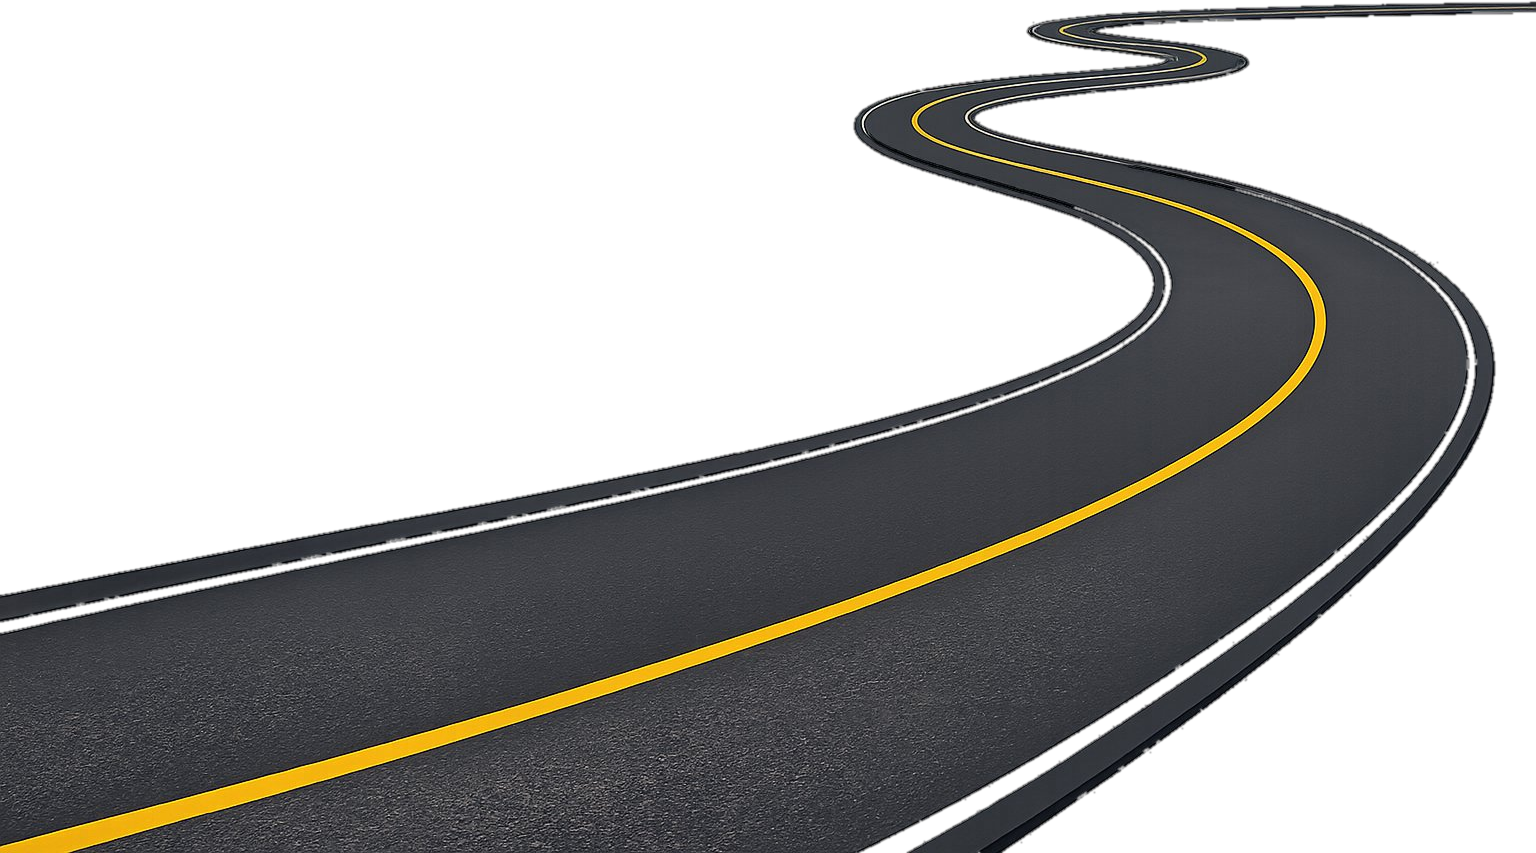
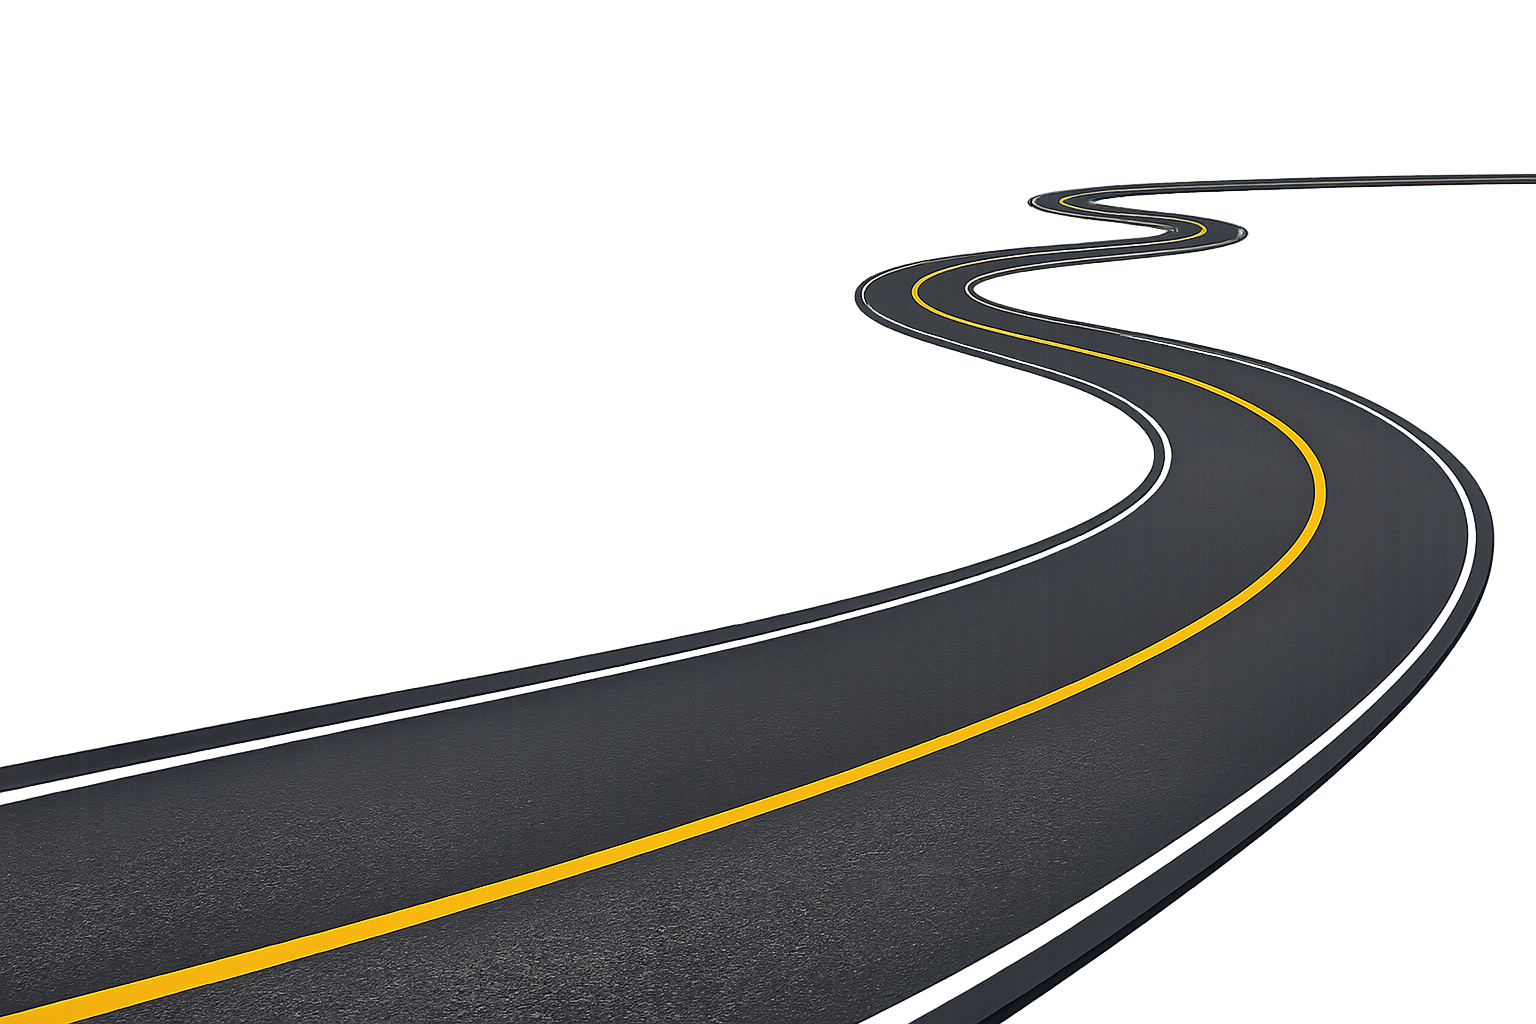
web_distinta

Changed region(s): [[0.0, 0.0, 1.0, 1.0], [0.7812, 0.5791, 0.8125, 0.6096], [0.75, 0.6096, 0.7812, 0.6401]]

diff --git a/styles.css b/styles.css
@@ -72,14 +72,14 @@
   .hero-note b{color:var(--text);font-weight:600}
 
   /* Composición visual del hero (placeholder de fotos) */
-  .hero-art{position:relative;display:flex;align-items:center;justify-content:center;padding:6px 0}
-  .road-scene{position:relative;width:100%}
-  .hero-road{width:100%;height:auto;display:block}
-  .hero-truck{position:absolute;left:36%;bottom:8%;width:44%;height:auto;z-index:3;filter:drop-shadow(0 10px 14px rgba(14,22,46,.18))}
-  .truck-shadow{position:absolute;left:37%;bottom:6%;width:42%;height:7%;z-index:2;background:radial-gradient(ellipse at center,rgba(12,16,30,.34),rgba(12,16,30,0) 70%)}
-  .hero-art .fdrop{position:absolute;z-index:4;height:auto}
-  .hero-art .hd1{top:6%;left:3%;width:30px}
-  .hero-art .hd2{top:30%;right:2%;width:26px}
+  .hero-art{position:relative;display:flex;align-items:center;justify-content:center;padding:14px 4px}
+  .hero-blob{position:absolute;inset:5% 1%;z-index:0;background:var(--amarillo);border-radius:46% 54% 56% 44% / 57% 46% 54% 43%}
+  .hero-truck{position:relative;z-index:2;width:100%;height:auto;display:block;filter:drop-shadow(0 16px 20px rgba(14,22,46,.25))}
+  .hero-road{position:relative;z-index:2;width:100%;height:auto;display:block}
+  .hero-art .fdrop{position:absolute;z-index:3;height:auto}
+  .hero-art .hd1{top:4%;left:5%;width:30px}
+  .hero-art .hd2{top:9%;right:6%;width:26px}
+  .hero-art .hd3{bottom:12%;left:2%;width:24px}
   .frame{position:absolute;border-radius:var(--r-lg);overflow:hidden;background:var(--paper);border:1px solid var(--line);box-shadow:var(--shadow)}
   .frame .ph{width:100%;height:100%;display:flex;align-items:flex-end;padding:16px;color:#fff;font-family:"Fredoka";font-weight:500;font-size:.9rem}
   .frame.big{top:0;right:0;width:74%;height:300px;transform:rotate(2deg)}
@@ -252,10 +252,12 @@
   @keyframes bob{0%,100%{transform:translateY(0) rotate(0deg)}50%{transform:translateY(-9px) rotate(-.6deg)}}
   @keyframes spin{to{transform:rotate(360deg)}}
   @keyframes blobpulse{0%,100%{transform:scale(1) rotate(0deg)}50%{transform:scale(1.04) rotate(2.5deg)}}
+  .js .hero-blob{transform-box:fill-box;transform-origin:center;animation:blobpulse 13s ease-in-out infinite}
   .js .hero-truck{animation:bob 5s ease-in-out infinite}
   .js .hero-art .fdrop{transform-box:fill-box;transform-origin:center}
   .js .hero-art .hd1{animation:floaty 5s ease-in-out infinite}
   .js .hero-art .hd2{animation:floaty 6.4s ease-in-out infinite}
+  .js .hero-art .hd3{animation:floaty 5.6s ease-in-out infinite .6s}
   .gallery .g{transition:transform .4s ease,box-shadow .4s ease,opacity .55s ease}
   .gallery .g:hover{transform:translateY(-5px) scale(1.015)}
   .js .reveal.in{opacity:1;transform:none}

diff --git a/index.html b/index.html
@@ -53,13 +53,13 @@
     </div>
 
     <div class="hero-art reveal" aria-hidden="true">
-      <div class="road-scene">
-        <img class="hero-road" src="road.png" alt="">
-        <span class="truck-shadow"></span>
-        <img class="hero-truck" src="pindeco-furgoneta.png" alt="Furgoneta de Pindeco">
-        <svg class="fdrop hd1" viewBox="0 0 100 130"><path d="M50 5C30 55 12 75 12 92a38 38 0 0 0 76 0C88 75 70 55 50 5Z" fill="var(--amarillo)"/></svg>
-        <svg class="fdrop hd2" viewBox="0 0 100 130"><path d="M50 5C30 55 12 75 12 92a38 38 0 0 0 76 0C88 75 70 55 50 5Z" fill="var(--rojo)"/></svg>
-      </div>
+     <!--  <span class="hero-blob"></span>-->
+        <img class="hero-truck" src="road.png" alt="carretera">
+      <img class="hero-truck" src="pindeco-furgoneta.png" alt="Furgoneta de Pindeco">
+     <!-- <svg class="fdrop hd1" viewBox="0 0 100 130"><path d="M50 5C30 55 12 75 12 92a38 38 0 0 0 76 0C88 75 70 55 50 5Z" fill="var(--amarillo)"/></svg>
+      <svg class="fdrop hd2" viewBox="0 0 100 130"><path d="M50 5C30 55 12 75 12 92a38 38 0 0 0 76 0C88 75 70 55 50 5Z" fill="var(--rojo)"/></svg>
+      <svg class="fdrop hd3" viewBox="0 0 100 130"><path d="M50 5C30 55 12 75 12 92a38 38 0 0 0 76 0C88 75 70 55 50 5Z" fill="var(--verde)"/></svg> -->
+
     </div>
   </div>
 </section>